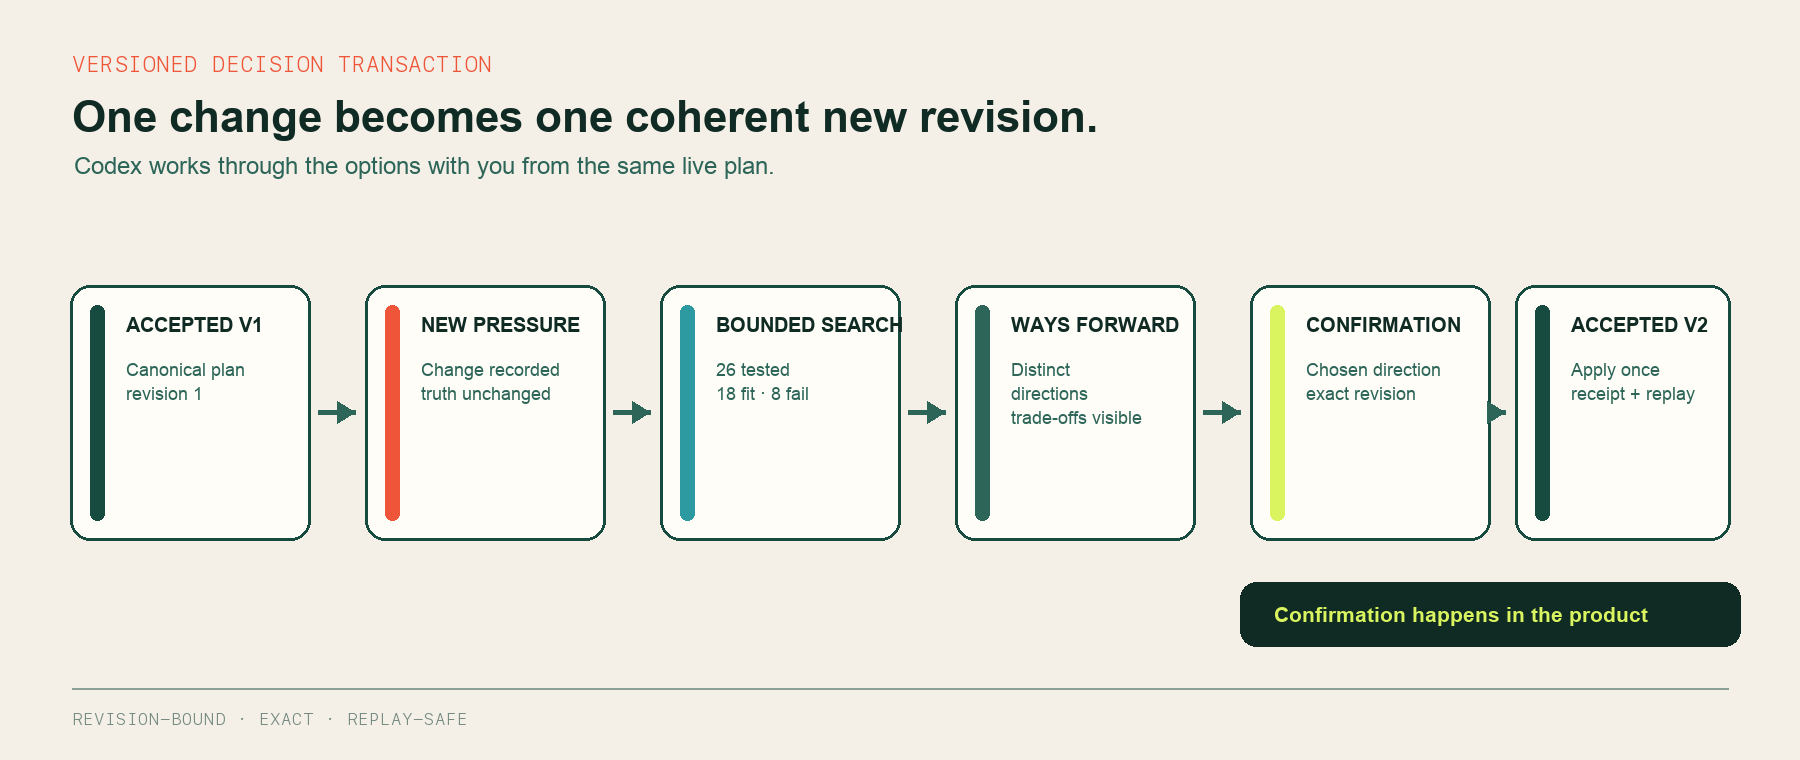
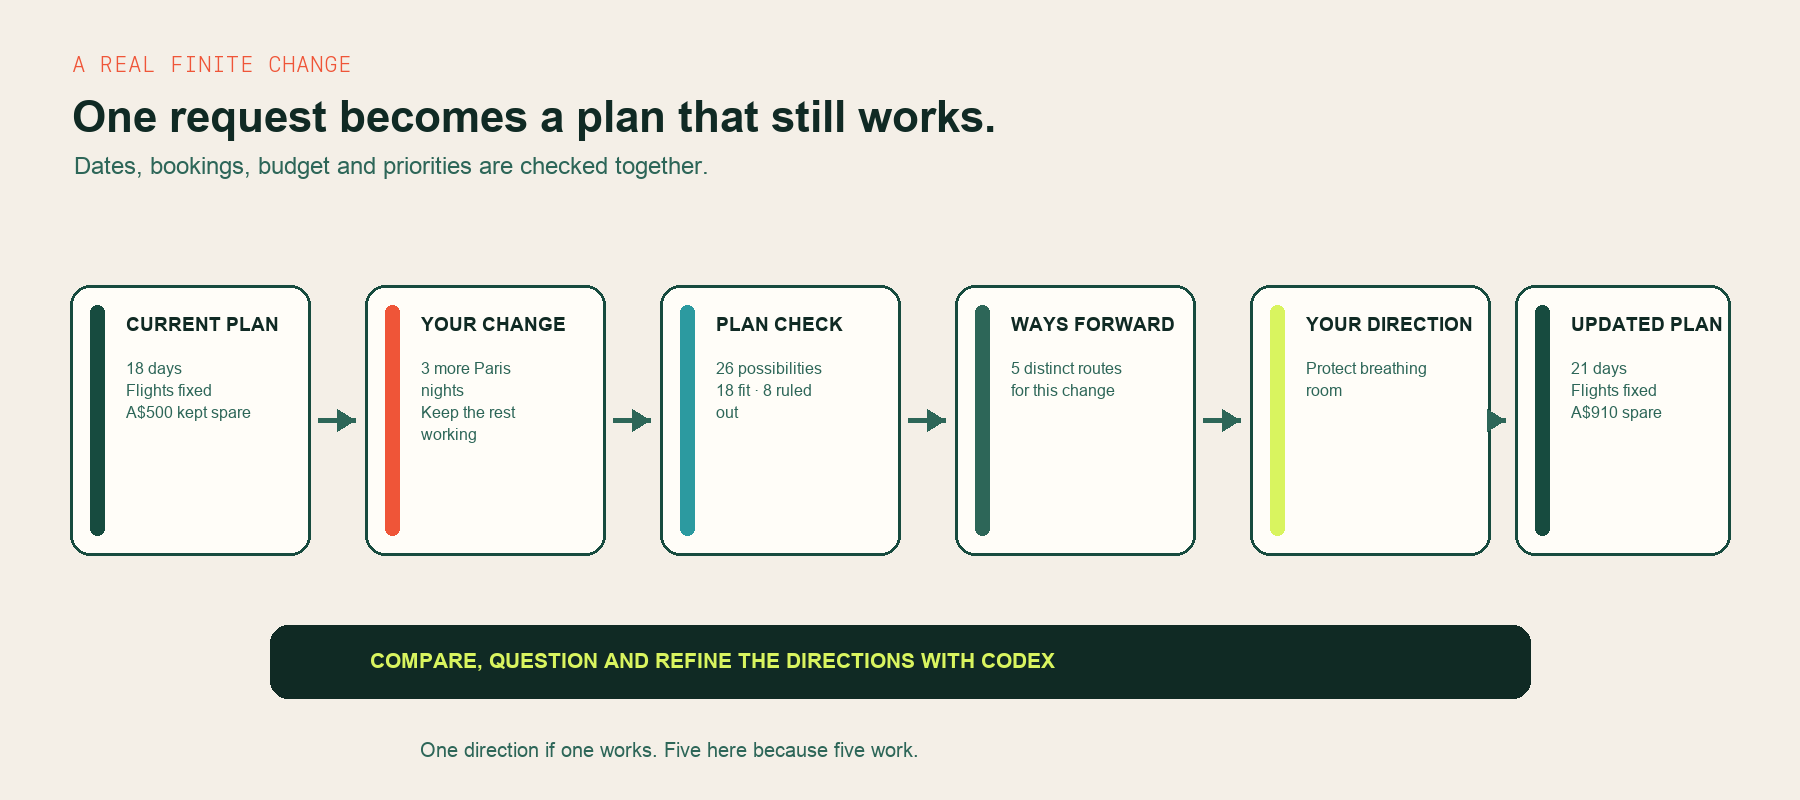
docs: make the change flow concrete

diff --git a/docs/diagrams/render_diagrams.py b/docs/diagrams/render_diagrams.py
@@ -94,25 +94,25 @@ def footer(draw: ImageDraw.ImageDraw, width: int, height: int, text: str) -> Non
 
 
 def decision_transaction() -> None:
-    image, draw = canvas(1800, 760, "Versioned decision transaction", "One change becomes one coherent new revision.", "Codex works through the options with you from the same live plan.")
+    image, draw = canvas(1800, 800, "A real Finite change", "One request becomes a plan that still works.", "Dates, bookings, budget and priorities are checked together.")
     labels = [
-        ("ACCEPTED V1", "Canonical plan\nrevision 1", GREEN),
-        ("NEW PRESSURE", "Change recorded\ntruth unchanged", CORAL),
-        ("BOUNDED SEARCH", "26 tested\n18 fit · 8 fail", TEAL),
-        ("WAYS FORWARD", "Distinct directions\ntrade-offs visible", GREEN_2),
-        ("CONFIRMATION", "Chosen direction\nexact revision", MINT),
-        ("ACCEPTED V2", "Apply once\nreceipt + replay", GREEN),
+        ("CURRENT PLAN", "18 days\nFlights fixed\nA$500 kept spare", GREEN),
+        ("YOUR CHANGE", "3 more Paris nights\nKeep the rest working", CORAL),
+        ("PLAN CHECK", "26 possibilities\n18 fit · 8 ruled out", TEAL),
+        ("WAYS FORWARD", "5 distinct routes\nfor this change", GREEN_2),
+        ("YOUR DIRECTION", "Protect breathing room", MINT),
+        ("UPDATED PLAN", "21 days\nFlights fixed\nA$910 spare", GREEN),
     ]
     x_positions = [70, 365, 660, 955, 1250, 1515]
     widths = [240, 240, 240, 240, 240, 215]
-    y0, y1 = 285, 540
+    y0, y1 = 285, 555
     for index, ((title, body, accent), x0, w) in enumerate(zip(labels, x_positions, widths)):
-        box(draw, (x0, y0, x0 + w, y1), title, body, accent=accent, title_size=20, body_size=18)
+        box(draw, (x0, y0, x0 + w, y1), title, body, accent=accent, title_size=19, body_size=16)
         if index < len(labels) - 1:
-            arrow(draw, (x0 + w + 8, 412), (x_positions[index + 1] - 10, 412), colour=GREEN_2)
-    draw.rounded_rectangle((1240, 582, 1740, 646), radius=16, fill=INK)
-    draw.text((1274, 602), "Confirmation happens in the product", font=font(21, bold=True), fill=MINT)
-    footer(draw, 1800, 760, "REVISION-BOUND · EXACT · REPLAY-SAFE")
+            arrow(draw, (x0 + w + 8, 420), (x_positions[index + 1] - 10, 420), colour=GREEN_2)
+    draw.rounded_rectangle((270, 625, 1530, 698), radius=18, fill=INK)
+    draw.text((370, 648), "COMPARE, QUESTION AND REFINE THE DIRECTIONS WITH CODEX", font=font(21, bold=True), fill=MINT)
+    draw.text((420, 738), "One direction if one works. Five here because five work.", font=font(20), fill=GREEN_2)
     image.save(OUT / "diagram-decision-transaction.png", optimize=True)
 
 

diff --git a/README.md b/README.md
@@ -122,20 +122,32 @@ working vocabulary through the same durable connection.
 
 </details>
 
-## How one change becomes a working plan
+## How Finite works through a real change
 
-![Finite decision transaction from accepted revision through pressure, bounded search, human authority and durable receipt](./docs/media/diagram-decision-transaction.png)
+![The Paris example moving from the current plan through a whole-plan check to a workable updated plan](./docs/media/diagram-decision-transaction.png)
 
-The public Spotlight makes that flow concrete. An 18-day trip has fixed flights
-and must retain at least A$500. Reality adds three Paris nights. Finite checks 26
-possible combinations, finds 18 that fit and brings back the meaningfully
-different routes. The person and Codex can compare or refine them before one is
-carried into the plan. In the demonstrated route, the trip becomes 21 days,
-Paris moves from 4 to 7 nights, and A$910 remains free.
+The public Spotlight starts with an 18-day trip. The international flights are
+fixed and at least A$500 must remain spare. You ask to add three Paris nights
+without losing either condition.
+
+Finite checks more than the Paris row. It tests 26 connected combinations
+across dates, stays, transport and budget. Eighteen still fit, eight break the
+plan, and five meaningfully different directions remain. You and Codex can
+compare, question and refine them before carrying **Protect breathing room**
+into the plan. The result is a 21-day trip with the flights fixed and A$910
+spare.
 
 ![Distinct workable directions produced from one real-world change](./docs/media/04-bounded-decision.png)
 
-![Accepted revision and replay-safe receipt surviving reload](./docs/media/05-durable-receipt.png)
+The five directions exist because five genuinely different routes work for
+this change. If only one direction works, Finite returns one.
+
+<details>
+<summary><strong>Engineering proof: the updated plan survives reload</strong></summary>
+
+![The accepted updated plan and its receipt surviving reload](./docs/media/05-durable-receipt.png)
+
+</details>
 
 ## System architecture
 
